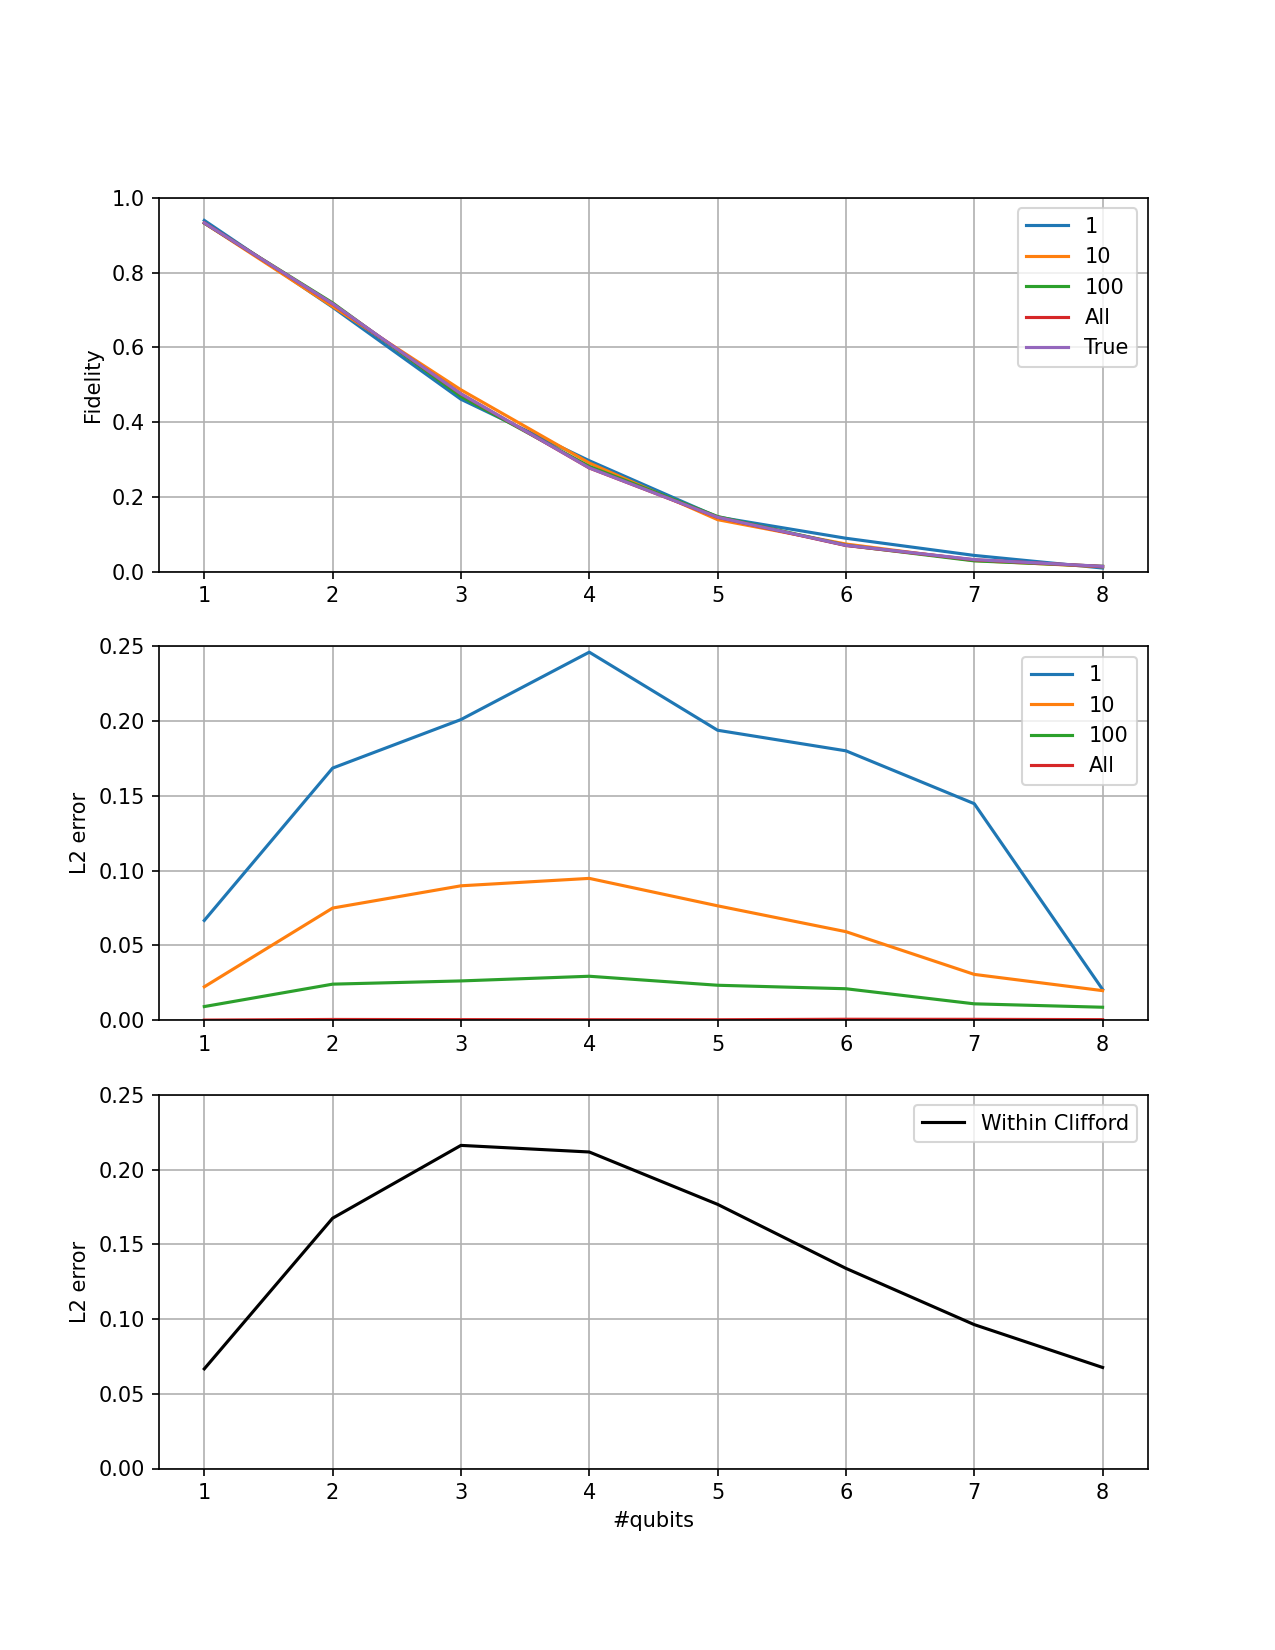
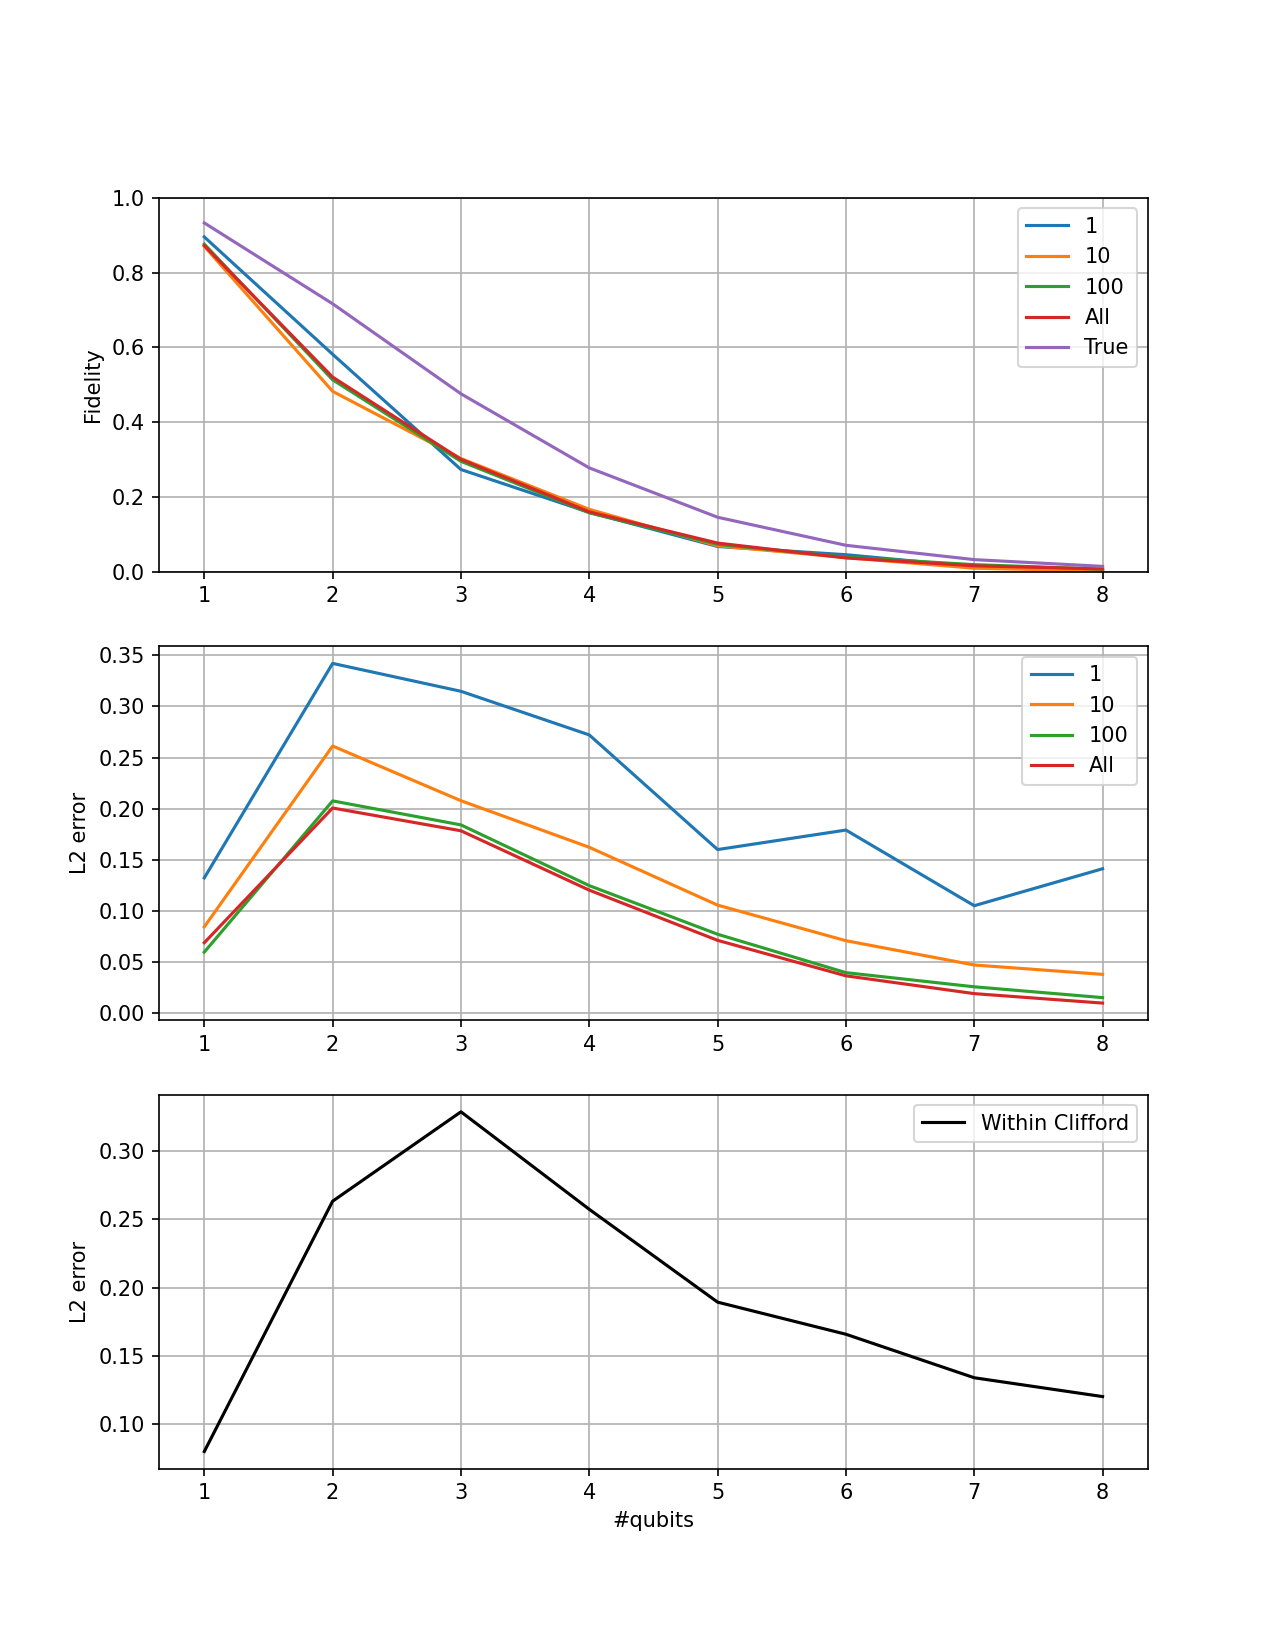
sandbox

diff --git a/examples/direct_fidelity_estimation_study.py b/examples/direct_fidelity_estimation_study.py
@@ -11,19 +11,20 @@ import cirq
 import examples.direct_fidelity_estimation as dfe
 import recirq
 
-def _build_circuit(n_qubits) -> Tuple[cirq.Circuit, List[cirq.Qid]]:
+def _build_circuit(circuit_id, n_qubits) -> Tuple[cirq.Circuit, List[cirq.Qid]]:
     assert n_qubits >= 1
 
-    # Builds a Clifford circuit to be studied.
-    qubits: List[cirq.Qid] = cast(List[cirq.Qid],
-                                  cirq.LineQubit.range(n_qubits))
-    circuit: cirq.Circuit = cirq.Circuit()
+    if circuit_id == 0:
+        # Builds a Clifford circuit to be studied.
+        qubits: List[cirq.Qid] = cast(List[cirq.Qid],
+                                      cirq.LineQubit.range(n_qubits))
+        circuit: cirq.Circuit = cirq.Circuit()
 
-    for i in range(0, n_qubits):
-        circuit.append(cirq.H(qubits[i]))
-    for i in range(1, n_qubits):
-        circuit.append(cirq.CZ(qubits[i - 1], qubits[i]))
-    return qubits, circuit
+        for i in range(0, n_qubits):
+            circuit.append(cirq.H(qubits[i]))
+        for i in range(1, n_qubits):
+            circuit.append(cirq.CZ(qubits[i - 1], qubits[i]))
+        return qubits, circuit
 
 def _get_noise(noise):
     return cirq.depolarize(noise)
@@ -33,19 +34,21 @@ def _get_noise(noise):
                                     frozen=True)
 class DFETask:
     """A task that runs direct fidelity estimation (DFE) studies."""
+    circuit_id: int
     n_repetitions: int
     n_qubits: int
     n_measured_operators: int
+    samples_per_term: int
     noise: float
 
     @property
     def fn(self):
         n_measured_operators_strings = 'exhaustive' if self.n_measured_operators is None else '%d' % (self.n_measured_operators)
-        return '%d_%d_%s_%e' % (self.n_repetitions, self.n_qubits, n_measured_operators_strings, self.noise)
+        return '%d_%d_%d_%s_%d_%e' % (self.circuit_id, self.n_repetitions, self.n_qubits, n_measured_operators_strings, self.samples_per_term, self.noise)
 
     def run(self):
         print('Computing...')
-        qubits, circuit = _build_circuit(self.n_qubits)
+        qubits, circuit = _build_circuit(self.circuit_id, self.n_qubits)
         noisy_simulator = cirq.DensityMatrixSimulator(noise=_get_noise(self.noise))
         results = []
         for _ in range(self.n_repetitions):
@@ -53,16 +56,18 @@ class DFETask:
               dfe.direct_fidelity_estimation(
                   circuit, qubits, noisy_simulator,
                   n_measured_operators=self.n_measured_operators,
-                  samples_per_term=0))
+                  samples_per_term=self.samples_per_term))
             results.append({
                 'estimated_fidelity': estimated_fidelity,
                 'intermediate_result': dataclasses.asdict(intermediate_result)})
         return results
 
-def run_one_study(n_repetitions: int, n_qubits: int, n_measured_operators: int, noise: float):
-    task = DFETask(n_repetitions=n_repetitions,
+def run_one_study(circuit_id: int, n_repetitions: int, n_qubits: int, n_measured_operators: int, samples_per_term: int, noise: float):
+    task = DFETask(circuit_id=circuit_id,
+                   n_repetitions=n_repetitions,
                    n_qubits=n_qubits,
                    n_measured_operators=n_measured_operators,
+                   samples_per_term=samples_per_term,
                    noise=noise)
     base_dir = os.path.expanduser(f'~/cirq_results/study/dfe')
     if recirq.exists(task, base_dir=base_dir):
@@ -74,8 +79,8 @@ def run_one_study(n_repetitions: int, n_qubits: int, n_measured_operators: int, 
                     base_dir=base_dir)
     return data
 
-def get_one_study(n_repetitions: int, n_qubits: int, n_measured_operators: int, noise: float):
-    data = run_one_study(n_repetitions=n_repetitions, n_qubits=n_qubits, n_measured_operators=n_measured_operators, noise=noise)
+def get_one_study(circuit_id: int, n_repetitions: int, n_qubits: int, n_measured_operators: int, samples_per_term: int, noise: float):
+    data = run_one_study(circuit_id=circuit_id, n_repetitions=n_repetitions, n_qubits=n_qubits, n_measured_operators=n_measured_operators, samples_per_term=samples_per_term, noise=noise)
     return [x['estimated_fidelity'] for x in data['results']]
 
 @recirq.json_serializable_dataclass(namespace='recirq.readout_scan',
@@ -83,18 +88,19 @@ def get_one_study(n_repetitions: int, n_qubits: int, n_measured_operators: int, 
                                     frozen=True)
 class TrueFidelityTask:
     """A task that computes the fidelity exactly."""
+    circuit_id: int
     n_qubits: int
     noise: float
 
     @property
     def fn(self):
-        return '%d_%e' % (self.n_qubits, self.noise)
+        return '%d_%d_%e' % (self.circuit_id, self.n_qubits, self.noise)
 
-        circuit, qubits = build_circuit(n_qubits=n_qubits)
+        circuit, qubits = build_circuit(circuit_id=circuit_id, n_qubits=n_qubits)
 
     def run(self):
         print('Computing...')
-        qubits, circuit = _build_circuit(self.n_qubits)
+        qubits, circuit = _build_circuit(self.circuit_id, self.n_qubits)
         clean_simulator = cirq.DensityMatrixSimulator()
         noisy_simulator = cirq.DensityMatrixSimulator(noise=_get_noise(self.noise))
 
@@ -107,8 +113,8 @@ class TrueFidelityTask:
 
         return cirq.fidelity(clean_density_matrix, noisy_density_matrix)
 
-def run_true_fidelity(n_qubits: int, noise: float):
-    task = TrueFidelityTask(n_qubits=n_qubits, noise=noise)
+def run_true_fidelity(circuit_id: int, n_qubits: int, noise: float):
+    task = TrueFidelityTask(circuit_id=circuit_id, n_qubits=n_qubits, noise=noise)
     base_dir = os.path.expanduser(f'~/cirq_results/study/true')
     if recirq.exists(task, base_dir=base_dir):
         data = recirq.load(task, base_dir=base_dir)
@@ -119,12 +125,14 @@ def run_true_fidelity(n_qubits: int, noise: float):
                     base_dir=base_dir)
     return data
 
-def get_true_fidelity(n_qubits: int, noise: float):
-    return run_true_fidelity(n_qubits=n_qubits, noise=noise)['true_fidelity']
+def get_true_fidelity(circuit_id: int, n_qubits: int, noise: float):
+    return run_true_fidelity(circuit_id=circuit_id, n_qubits=n_qubits, noise=noise)['true_fidelity']
 
 def main():
     noise = 0.1
     n_repetitions = 100
+    circuit_id = 0
+    samples_per_term = 1000
 
     n_qubits_range = range(1, 9)
     n_measured_operators_range = [1, 10, 100, None]
@@ -136,13 +144,13 @@ def main():
     legend_str = []
     for n_measured_operators in n_measured_operators_range:
         fidelities = [np.mean(get_one_study(
-            n_repetitions=n_repetitions, n_qubits=n_qubits,
-            n_measured_operators=n_measured_operators,
+            circuit_id=circuit_id, n_repetitions=n_repetitions, n_qubits=n_qubits,
+            n_measured_operators=n_measured_operators, samples_per_term=samples_per_term,
             noise=noise)) for n_qubits in n_qubits_range]
         plt.plot(n_qubits_range, fidelities)
         plt.ylim((0.0, 1.0))
         legend_str.append('%s' % ('All' if n_measured_operators is None else ('%d' % (n_measured_operators))))
-    plt.plot(n_qubits_range, [get_true_fidelity(n_qubits, noise) for n_qubits in n_qubits_range])
+    plt.plot(n_qubits_range, [get_true_fidelity(circuit_id, n_qubits, noise) for n_qubits in n_qubits_range])
     plt.ylabel('Fidelity')
     plt.legend(legend_str + ["True"])
     plt.grid()
@@ -151,10 +159,10 @@ def main():
     for n_measured_operators in n_measured_operators_range:
         errors = []
         for n_qubits in n_qubits_range:
-            true_fidelity = get_true_fidelity(n_qubits, noise)
+            true_fidelity = get_true_fidelity(circuit_id, n_qubits, noise)
             raw_fidelity = get_one_study(
-                n_repetitions=n_repetitions, n_qubits=n_qubits,
-                n_measured_operators=n_measured_operators,
+                circuit_id=circuit_id, n_repetitions=n_repetitions, n_qubits=n_qubits,
+                n_measured_operators=n_measured_operators, samples_per_term=samples_per_term,
                 noise=noise)
             errors.append(math.sqrt(np.mean([(x - true_fidelity)**2 for x in raw_fidelity])))
         plt.plot(n_qubits_range, errors)
@@ -162,14 +170,16 @@ def main():
     plt.ylabel('L2 error')
     plt.grid()
     plt.legend(legend_str)
-    plt.ylim((0.0, 0.25))
+    #plt.ylim((0.0, 0.25))
 
     plt.subplot(3, 1, 3)
     fidelity_clifford_l2 = []
     for n_qubits in n_qubits_range:
-      result = run_one_study(n_repetitions=1,
+      result = run_one_study(circuit_id=circuit_id,
+                             n_repetitions=1,
                              n_qubits=n_qubits,
                              n_measured_operators=None,
+                             samples_per_term=samples_per_term,
                              noise=noise)['results'][0]
       trial_results = result['intermediate_result']['trial_results']
       pauli_traces = result['intermediate_result']['pauli_traces']
@@ -185,7 +195,7 @@ def main():
       fidelity_clifford_l2.append(math.sqrt(np.mean([(x - estimated_fidelity)**2 for x in fidelity_comps])))
 
     plt.plot(n_qubits_range, fidelity_clifford_l2, 'k')
-    plt.ylim((0.0, 0.25))
+    #plt.ylim((0.0, 0.25))
     plt.xlabel('#qubits')
     plt.ylabel('L2 error')
     plt.grid()
